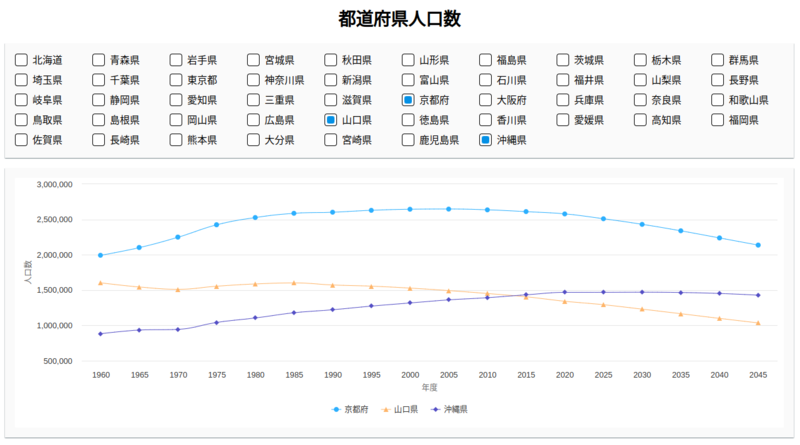
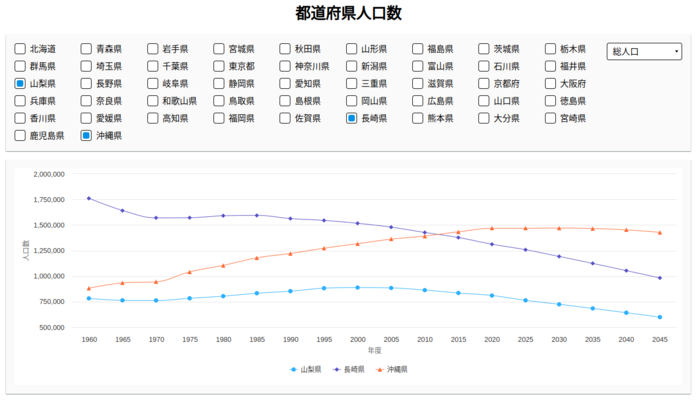
Add ability to select statistics type, collect coverage

diff --git a/src/pages/ChartPage/ChartPage.vue b/src/pages/ChartPage/ChartPage.vue
@@ -1,8 +1,9 @@
 <script setup lang="ts">
 import { computed, ref } from "vue"
 import type { Ref } from "vue"
-import { POPULATION_STATISTICS_OVERALL_KEY } from "@/services/api/resas/constants"
+import { PopulationCompositionStatisticsType } from "@/services/api/resas/enums"
 import { ResasService } from "@/services/api/resas/client"
+import { populationCompositionStatisticsKeyToType } from "@/services/api/resas/configurations"
 import { resas } from "@/services/api/resas"
 import PrefectureList from "@/pages/ChartPage/components/PrefectureList.vue"
 import StatisticsChart from "@/pages/ChartPage/components/StatisticsChart.vue"
@@ -10,7 +11,14 @@ import CredentialsForm from "@/pages/ChartPage/components/CredentialsForm.vue"
 
 const resasApiKeyEntered = ref(ResasService.hasApiKey)
 
-export type PrefectureModel = { code: number; name: string; visible: boolean; data: number[] | null }
+const statisticsType = ref(PopulationCompositionStatisticsType.OVERALL)
+
+export type PrefectureModel = {
+  code: number
+  name: string
+  visible: boolean
+  data: Record<PopulationCompositionStatisticsType, number[]> | null
+}
 const prefectures: Ref<PrefectureModel[]> = ref([])
 const prefectureIndex = computed(() =>
   prefectures.value.reduce<Record<number, PrefectureModel>>((acc, prefecture) => {
@@ -21,7 +29,7 @@ const prefectureIndex = computed(() =>
 
 const visiblePrefectureStatistics = computed(() =>
   Object.values(prefectures.value).reduce<{ name: string; data: number[] }[]>((acc, { name, visible, data }) => {
-    visible && data && acc.push({ name, data })
+    visible && data?.[statisticsType.value] && acc.push({ name, data: data[statisticsType.value] })
     return acc
   }, []),
 )
@@ -58,9 +66,14 @@ async function togglePrefectureGraph(visible: boolean, prefectureCode: number) {
 
   const result = await resas.getPopulationComposition({ prefCode: prefectureCode, cityCode: "-" })
   const prefectureData = result.data.result.data
-  prefectureModel.data = prefectureData
-    .find((statistics) => statistics.label === POPULATION_STATISTICS_OVERALL_KEY)!
-    .data.map((yearData) => yearData.value)
+  prefectureModel.data = prefectureData.reduce(
+    (acc, data) => {
+      const statisticsType = populationCompositionStatisticsKeyToType[data.label]
+      acc[statisticsType] = data.data.map((yearData) => yearData.value)
+      return acc
+    },
+    {} as Record<PopulationCompositionStatisticsType, number[]>,
+  )
 }
 
 function init() {
@@ -76,7 +89,11 @@ init()
     <h1 class="chart-page__title">都道府県人口数</h1>
 
     <template v-if="resasApiKeyEntered">
-      <PrefectureList :prefectures="prefectures" @toggle-prefecture="togglePrefectureGraph" />
+      <PrefectureList
+        v-model:statistics-type="statisticsType"
+        :prefectures="prefectures"
+        @toggle-prefecture="togglePrefectureGraph"
+      />
       <StatisticsChart :prefectures="visiblePrefectureStatistics" />
     </template>
 

diff --git a/src/pages/ChartPage/components/PrefectureList.vue b/src/pages/ChartPage/components/PrefectureList.vue
@@ -1,13 +1,32 @@
 <script setup lang="ts">
 import { computed, ref, unref } from "vue"
+import { useMobile } from "@/utils/composables"
+import { PopulationCompositionStatisticsType } from "@/services/api/resas/enums"
+import { populationCompositionStatisticsTypeToKey } from "@/services/api/resas/configurations"
 import YCheckbox from "@/components/YCheckbox.vue"
 import type { PrefectureModel } from "@/pages/ChartPage/ChartPage.vue"
-import { useMobile } from "@/utils/composables"
 
 const props = defineProps<{
   prefectures: PrefectureModel[]
+  statisticsType: PopulationCompositionStatisticsType
 }>()
-defineEmits(["togglePrefecture"])
+const emit = defineEmits(["togglePrefecture", "update:statisticsType"])
+
+const statisticsTypeModel = computed({
+  get() {
+    return props.statisticsType
+  },
+  set(value) {
+    emit("update:statisticsType", value)
+  },
+})
+
+const statisticsTypeOptions = [
+  PopulationCompositionStatisticsType.OVERALL,
+  PopulationCompositionStatisticsType.YOUNG,
+  PopulationCompositionStatisticsType.WORKING,
+  PopulationCompositionStatisticsType.ELDERLY,
+].map((value) => ({ value, label: populationCompositionStatisticsTypeToKey[value] }))
 
 const loading = computed(() => !unref(props.prefectures).length)
 const isMobile = useMobile()
@@ -34,6 +53,14 @@ const isOpened = ref(false)
       </div>
 
       <button v-if="isMobile" class="y-btn" @click="isOpened = !isOpened">選ぶを都道府県</button>
+
+      <div>
+        <select v-model="statisticsTypeModel" class="y-select">
+          <option v-for="option of statisticsTypeOptions" :key="option.value" :value="option.value">
+            {{ option.label }}
+          </option>
+        </select>
+      </div>
     </template>
   </div>
 </template>
@@ -49,20 +76,24 @@ const isOpened = ref(false)
     flex-direction: column;
   }
 
-  &.prefecture-list_mobile .list-wrapper {
-    position: fixed;
-    z-index: 5;
-    top: 0;
-    left: 0;
-    width: 100vw;
-    height: 100vh;
-    padding: 16px;
-    background: #fafafa;
-    overflow: scroll;
+  &.prefecture-list_mobile {
+    justify-content: space-around;
 
-    button {
-      margin-top: 16px;
-      font-size: 24px;
+    .list-wrapper {
+      position: fixed;
+      z-index: 5;
+      top: 0;
+      left: 0;
+      width: 100vw;
+      height: 100vh;
+      padding: 16px;
+      background: #fafafa;
+      overflow: scroll;
+
+      button {
+        margin-top: 16px;
+        font-size: 24px;
+      }
     }
   }
 

diff --git a/src/services/api/resas/configurations.ts b/src/services/api/resas/configurations.ts
@@ -1,0 +1,15 @@
+import { PopulationCompositionStatisticsType } from "@/services/api/resas/enums"
+
+export const populationCompositionStatisticsTypeToKey: Record<PopulationCompositionStatisticsType, string> = {
+  [PopulationCompositionStatisticsType.OVERALL]: "総人口",
+  [PopulationCompositionStatisticsType.YOUNG]: "年少人口",
+  [PopulationCompositionStatisticsType.WORKING]: "生産年齢人口",
+  [PopulationCompositionStatisticsType.ELDERLY]: "老年人口",
+}
+export const populationCompositionStatisticsKeyToType: Record<string, PopulationCompositionStatisticsType> =
+  Object.fromEntries(
+    Object.entries(populationCompositionStatisticsTypeToKey).map(([key, value]) => [
+      value,
+      key as PopulationCompositionStatisticsType,
+    ]),
+  )

diff --git a/src/pages/ChartPage/__tests__/PrefectureList.spec.ts b/src/pages/ChartPage/__tests__/PrefectureList.spec.ts
@@ -1,11 +1,14 @@
 import { describe, it, expect } from "vitest"
 
 import { mount } from "@vue/test-utils"
+import { PopulationCompositionStatisticsType } from "@/services/api/resas/enums"
 import PrefectureList from "@/pages/ChartPage/components/PrefectureList.vue"
 
 describe("PrefectureList", () => {
   it("renders properly", () => {
-    const wrapper = mount(PrefectureList, { props: { prefectures: [] } })
+    const wrapper = mount(PrefectureList, {
+      props: { prefectures: [], statisticsType: PopulationCompositionStatisticsType.OVERALL },
+    })
     expect(wrapper.text()).toContain("読み込み中。。。")
   })
 })

diff --git a/src/services/api/resas/index.ts b/src/services/api/resas/index.ts
@@ -1,7 +1,8 @@
 // https://opendata.resas-portal.go.jp/docs/api/v1/index.html
 
-import { resasClient } from "@/services/api/resas/client"
 import type { AxiosResponse } from "axios"
+import { PopulationCompositionStatisticsType } from "@/services/api/resas/enums"
+import { resasClient } from "@/services/api/resas/client"
 
 type GetPrefecturesResult = {
   message: null | string
@@ -20,7 +21,7 @@ type GetPopulationCompositionResult = {
   result: {
     boundaryYear: number
     data: {
-      label: string
+      label: PopulationCompositionStatisticsType
       data: {
         year: number
         value: number

diff --git a/vitest.config.ts b/vitest.config.ts
@@ -6,6 +6,9 @@ export default mergeConfig(
   viteConfig,
   defineConfig({
     test: {
+      coverage: {
+        reporter: ["text", "json-summary", "json"],
+      },
       environment: "jsdom",
       exclude: [...configDefaults.exclude, "e2e/*"],
       root: fileURLToPath(new URL("./", import.meta.url)),

diff --git a/src/services/api/resas/constants.ts b/src/services/api/resas/constants.ts
@@ -2,4 +2,3 @@ export const API_KEY_HEADER_NAME = "X-API-KEY"
 export const POPULATION_STATISTICS_START_YEAR = 1960
 export const POPULATION_STATISTICS_END_YEAR = 2045
 export const POPULATION_STATISTICS_STEP_YEAR = 5
-export const POPULATION_STATISTICS_OVERALL_KEY = "総人口"

diff --git a/src/assets/ui.scss b/src/assets/ui.scss
@@ -31,3 +31,13 @@
     color: rgb(255, 255, 255, 0.7);
   }
 }
+
+.y-select {
+  appearance: none;
+  padding: 0 30px 0 10px;
+  line-height: 32px;
+  height: 32px;
+  background-color: white;
+  border: 1px solid currentColor;
+  border-radius: 4px;
+}

diff --git a/src/services/api/resas/enums.ts b/src/services/api/resas/enums.ts
@@ -1,0 +1,6 @@
+export enum PopulationCompositionStatisticsType {
+  OVERALL = "OVERALL",
+  YOUNG = "YOUNG",
+  WORKING = "WORKING",
+  ELDERLY = "ELDERLY",
+}

diff --git a/README.md b/README.md
@@ -1,4 +1,4 @@
-# yumemi-test
+# yumemi-test [![codecov](https://codecov.io/github/become-iron/yumemi-test/graph/badge.svg?token=AWCBNDBSN0)](https://codecov.io/github/become-iron/yumemi-test)
 
 ## Overview
 
